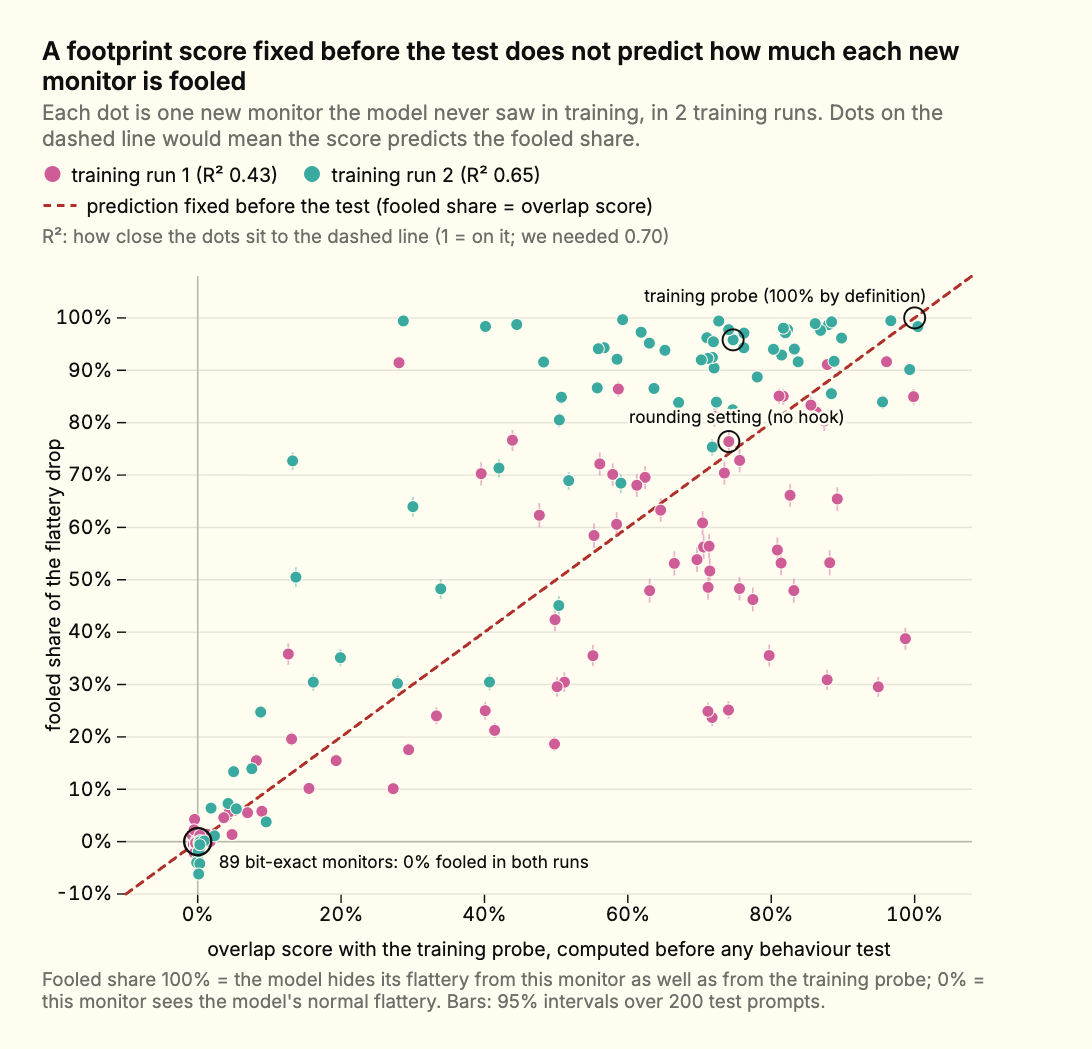
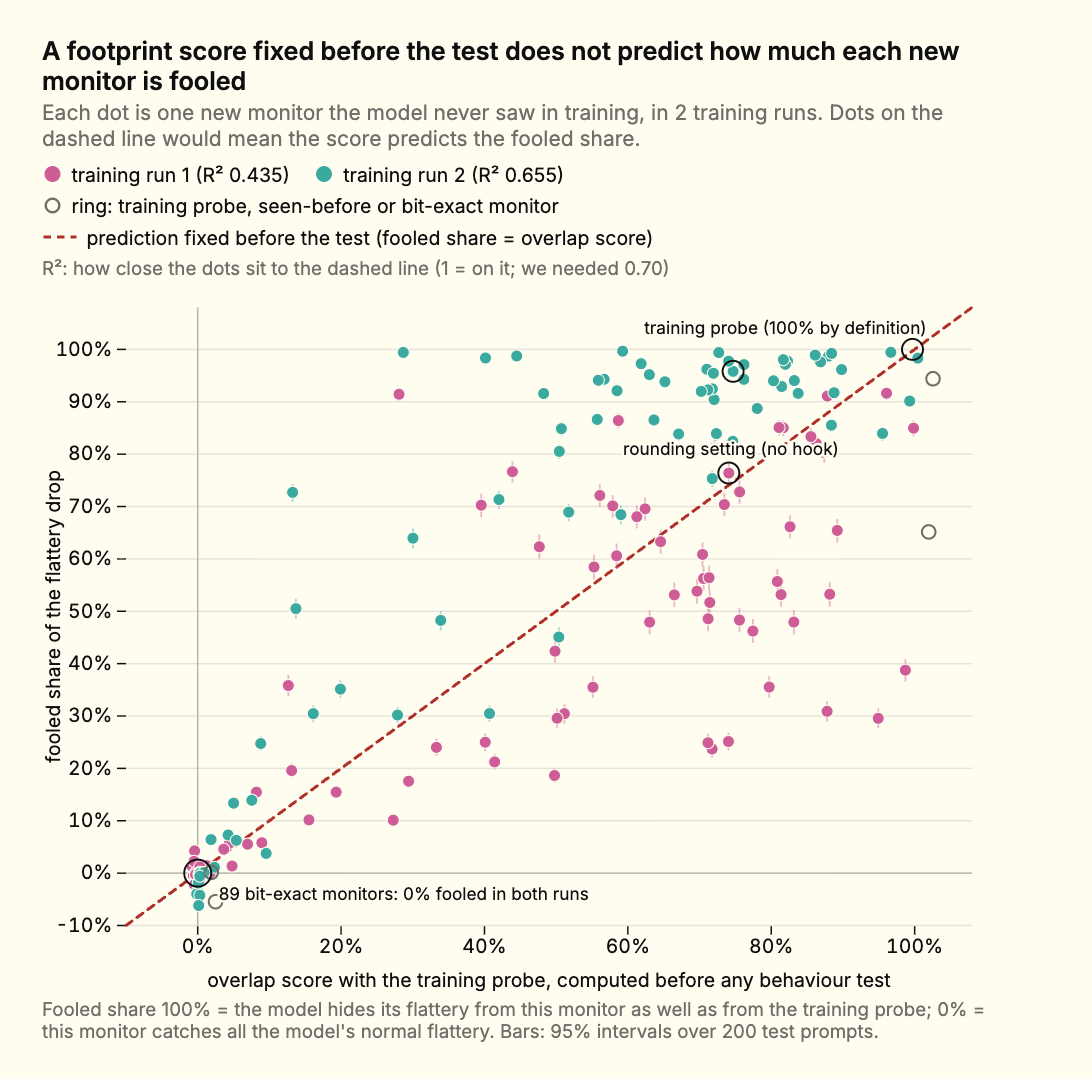
footprint-overlap: figure trimmed to variant (a), summary first in data.json, seen-before rings, R2 3 dp

diff --git a/projects/footprint-overlap/figures/footprint-overlap/plot.js b/projects/footprint-overlap/figures/footprint-overlap/plot.js
@@ -1,11 +1,10 @@
-// A model trained by reward to stop flattering only while a leaky probe (the training probe) is attached.
-// Each dot is one new monitor build that the model never saw in training, for each of 2 training runs.
-// x = overlap score: how much the monitor's numeric footprint looks like the training probe's, to a classifier
-//     trained only on the training probe; computed on the untrained model before any behaviour test.
-// y = fooled share: the flattery drop under that monitor divided by the drop under the training probe (200 prompts),
-//     with 95% bootstrap intervals. Dashed line = the prediction fixed before the test (share = overlap).
-// data.variant picks the view: a = colour by run; b = colour by hook layer, shape by run; c = one panel per run,
-// colour by layer; d = fooled share against hook layer; e = faint cloud + each run's fitted slope.
+// A model trained by reward to stop flattering only while one leaky probe (the training probe) is attached.
+// Each filled dot = one new monitor the model never saw in training (81: 80 leaky hooks + the rounding setting), in 2
+// training runs. x = overlap score: how much the monitor's numeric footprint looks like the training probe's to a
+// classifier trained only on the training probe, computed on the untrained model before any behaviour test.
+// y = fooled share: flattery drop under that monitor / drop under the training probe (200 prompts), 95% intervals.
+// Dashed line = the prediction fixed before the test (fooled share = overlap score). Rings: the training probe,
+// the 2 monitors seen before this run, and the 89 bit-exact monitors (one ring at the origin, 0% fooled).
 // Data: kran-research projects/footprint-overlap/figures/make_data.py.
 import { C, FONT, halo, plotStyle } from "../theme.js";
 
@@ -14,7 +13,6 @@ const pc = (v) => `${Math.round(v * 100)}%`;
 
 export function render(data, Plot) {
   const T = data.terms || {};
-  const V = data.variant || "a";
   const W = 640;
   const RUN = { 0: C.primary, 1: C.secondary };
   const root = document.createElement("div");
@@ -27,122 +25,55 @@ export function render(data, Plot) {
     d.textContent = text;
     return d;
   };
-  const fit = (svg) => {
-    svg.style.cssText += `;width:100%;height:auto;max-width:${W}px`;
-    return svg;
-  };
-  const dot = (c, hollow, sym) => sym === "tri"
-    ? `<svg width="14" height="14"><path d="M7 2 L12 11 L2 11 Z" fill="${hollow ? "none" : c}" stroke="${c}" stroke-width="1.4"/></svg>`
-    : `<svg width="14" height="14"><circle cx="7" cy="7" r="4.5" fill="${hollow ? "none" : c}" stroke="${c}" stroke-width="1.6"/></svg>`;
-  const line = (c, da, w = 2) => `<svg width="24" height="12"><line x1="1" y1="6" x2="23" y2="6" stroke="${c}" stroke-width="${w}"${da ? ` stroke-dasharray="${da}"` : ""}/></svg>`;
+  const dot = (c, hollow) => `<svg width="14" height="14"><circle cx="7" cy="7" r="4.5" fill="${hollow ? "none" : c}" stroke="${c}" stroke-width="1.6"/></svg>`;
+  const line = (c, da) => `<svg width="24" height="12"><line x1="1" y1="6" x2="23" y2="6" stroke="${c}" stroke-width="2"${da ? ` stroke-dasharray="${da}"` : ""}/></svg>`;
   const legend = (items) => {
     const d = el("display:flex;flex-wrap:wrap;gap:0.3rem 1rem;margin:0 0 0.3rem;font-size:13px;color:" + C.ink, "");
     d.innerHTML = items.map(([s, t]) => `<span style="display:inline-flex;align-items:center;gap:0.35rem">${s}${t}</span>`).join("");
     return d;
   };
-  root.append(
-    el("font-size:17px;font-weight:600;margin:0 0 0.15rem;color:" + C.ink, T.title || ""),
-    el("font-size:14px;margin:0 0 0.5rem;color:" + C.muted, T.subtitle || ""));
-
   const P = data.pts.filter((d) => d.k === "status");
   const seeds = [...new Set(P.map((d) => d.seed))].sort();
   const cell = (s) => data.cells[`s${s}@8192`] || {};
   const runName = (s) => (T.run || "training run ") + (s + 1);
+  root.append(
+    el("font-size:17px;font-weight:600;margin:0 0 0.15rem;color:" + C.ink, T.title || ""),
+    el("font-size:14px;margin:0 0 0.5rem;color:" + C.muted, T.subtitle || ""),
+    legend([...seeds.map((s) => [dot(RUN[s]), `${runName(s)} (R² ${cell(s).r2?.toFixed(3)})`]),
+      [dot(C.muted, true), T.key_ring || "ring: training probe, seen-before or bit-exact monitor"],
+      [line(C.red, "5,4"), T.key_line || "prediction fixed before the test"]]));
+  if (T.r2_gloss) root.append(el("font-size:12.5px;margin:0 0 0.3rem;color:" + C.muted, T.r2_gloss));
+
   const vals = P.flatMap((d) => [d.x, d.lo, d.hi]);
   const lo = Math.min(-0.08, ...vals) - 0.02, hi = Math.max(1.06, ...vals) + 0.02;
-  const off = (d) => (d.seed - (seeds.length - 1) / 2) * 0.006;
+  const off = (d) => (d.seed - (seeds.length - 1) / 2) * 0.006; // tiny nudge so the 2 runs do not hide each other
   const tip = (d) => `${d.name}\n${runName(d.seed)}\noverlap score ${pc(d.x)}\nfooled share ${pc(d.y)} (95% ${pc(d.lo)} to ${pc(d.hi)})`;
-  const layerColor = { type: "linear", domain: [0, 27], range: [C.primary, C.secondary], unknown: C.orange };
-  const bx = data.n_bitexact;
-  const bxMark = [Plot.dot([{ x: 0, y: 0 }], { x: "x", y: "y", r: 9, stroke: C.ink, strokeWidth: 1.6, fill: "none" }),
-    Plot.text([{ x: 0, y: 0 }], { ...halo(), x: "x", y: "y", text: [`${bx} ${T.bitexact || "bit-exact monitors: 0% fooled in both runs"}`], dx: 14, dy: 14, textAnchor: "start", fontSize: 11.5, fill: C.ink })];
-  const frame = (extra) => ({
-    style: plotStyle({ fontSize: "13px" }), marginLeft: 56, marginRight: 20, marginTop: 14, marginBottom: 44, ...extra,
-  });
-  const scatterMarks = (pts, colorOf, symbolOf) => [
-    Plot.gridY({ stroke: C.grid, strokeOpacity: 1 }),
-    Plot.ruleY([0], { stroke: C.faint }),
-    Plot.ruleX([0], { stroke: C.faint }),
-    Plot.line([[lo, lo], [hi, hi]], { stroke: C.red, strokeWidth: 2, strokeDasharray: "5,4" }),
-    Plot.link(pts, { x1: (d) => d.x + off(d), x2: (d) => d.x + off(d), y1: "lo", y2: "hi", stroke: colorOf, strokeOpacity: 0.45, strokeWidth: 1.2 }),
-    Plot.dot(pts, { x: (d) => d.x + off(d), y: "y", r: 4, symbol: symbolOf, fill: colorOf, stroke: C.paper, strokeWidth: 0.7, tip: true, title: tip }),
-    ...bxMark,
-  ];
-  const axes = { x: { domain: [lo, hi], label: T.x || "overlap score, computed before any behaviour test", tickFormat: pc, ...AX },
-    y: { domain: [lo, hi], label: T.y || "fooled share of the flattery drop", tickFormat: pc, ...AX } };
-  const lineKey = [line(C.red, "5,4"), T.key_line || "prediction fixed before the test"];
-  const layerKey = el("font-size:12.5px;margin:0 0 0.3rem;color:" + C.muted, T.layer_key || "colour: hook layer, from layer 0 (pink) to layer 27 (teal); orange = the rounding setting, which has no hook");
-
-  if (V === "a") {
-    const A = data.pts.filter((d) => d.k === "A" && d.seed === seeds[0]).map((d) => ({ ...d, y: 1 }));
-    const emu = P.filter((d) => d.b === "emu");
-    root.append(legend([...seeds.map((s) => [dot(RUN[s]), `${runName(s)} (R² ${cell(s).r2?.toFixed(2)})`]), lineKey]));
-    if (T.r2_gloss) root.append(el("font-size:12.5px;margin:0 0 0.3rem;color:" + C.muted, T.r2_gloss));
-    root.appendChild(fit(Plot.plot(frame({ width: W, height: 470, ...axes, marks: [
-      ...scatterMarks(P, (d) => RUN[d.seed], "circle"),
-      Plot.dot(emu, { x: (d) => d.x + off(d), y: "y", r: 7, stroke: C.ink, strokeWidth: 1.3, fill: "none" }),
-      Plot.text(emu.slice(0, 1), { ...halo(), x: "x", y: "y", text: [T.name_emu || "rounding setting (no hook)"], dx: 4, dy: -16, textAnchor: "middle", fontSize: 11.5, fill: C.ink }),
-      Plot.dot(A, { x: "x", y: "y", r: 7, stroke: C.ink, strokeWidth: 1.3, fill: "none" }),
-      Plot.text(A, { ...halo(), x: "x", y: "y", text: [T.name_A || "training probe"], dx: 8, dy: -14, textAnchor: "end", fontSize: 11.5, fill: C.ink }),
-    ] }))));
-  } else if (V === "b") {
-    root.append(legend([...seeds.map((s) => [dot(C.muted, false, s ? "tri" : "dot"), `${runName(s)} (R² ${cell(s).r2?.toFixed(2)})`]), lineKey]), layerKey);
-    root.appendChild(fit(Plot.plot(frame({ width: W, height: 470, ...axes, color: layerColor,
-      symbol: { domain: [0, 1], range: ["circle", "triangle"] },
-      marks: scatterMarks(P, (d) => d.layer ?? NaN, (d) => d.seed) }))));
-  } else if (V === "c") {
-    root.append(legend([lineKey]), layerKey);
-    const row = document.createElement("div");
-    row.style.cssText = "display:flex;gap:8px";
-    for (const s of seeds) {
-      const box = document.createElement("div");
-      box.style.cssText = "flex:1;min-width:0";
-      box.append(el("font-size:14px;font-weight:600;color:" + C.ink, `${runName(s)}: R² ${cell(s).r2?.toFixed(2)}`));
-      const svg = Plot.plot(frame({ width: 320, height: 330, marginLeft: 44, ...axes, color: layerColor,
-        x: { ...axes.x, label: s ? axes.x.label : null, ticks: 5 }, y: { ...axes.y, label: s ? null : axes.y.label, ticks: 6 },
-        marks: scatterMarks(P.filter((d) => d.seed === s), (d) => d.layer ?? NaN, "circle").slice(0, -1) }));
-      svg.style.cssText += ";width:100%;height:auto";
-      box.appendChild(svg);
-      row.appendChild(box);
-    }
-    root.appendChild(row);
-  } else if (V === "d") {
-    const hooks = P.filter((d) => d.layer != null);
-    const mean = (arr) => arr.reduce((a, b) => a + b, 0) / arr.length;
-    const byL = (s, key) => [...new Set(hooks.map((d) => d.layer))].sort((a, b) => a - b).map((L) => {
-      const v = hooks.filter((d) => d.layer === L && (s == null || d.seed === s));
-      return { layer: L, v: mean(v.map((d) => d[key])), seed: s };
-    });
-    const lines = seeds.map((s) => byL(s, "y"));
-    const ovl = byL(seeds[0], "x");
-    root.append(legend([...seeds.map((s) => [line(RUN[s]), `${runName(s)}: fooled share (mean per layer)`]),
-      [line(C.ink, "5,4"), T.key_overlap || "overlap score (mean per layer), fixed before the test"]]));
-    root.appendChild(fit(Plot.plot(frame({ width: W, height: 400,
-      x: { domain: [-0.5, 27.5], label: T.x_layer || "layer of the monitor's hook (block 26 is where the trained part starts)", ...AX },
-      y: { domain: [Math.min(-0.08, ...hooks.map((d) => d.y)), 1.08], label: axes.y.label, tickFormat: pc, ...AX },
-      marks: [
-        Plot.gridY({ stroke: C.grid, strokeOpacity: 1 }),
-        Plot.ruleY([0], { stroke: C.faint }),
-        Plot.ruleX([14], { stroke: C.faint, strokeDasharray: "2,3" }),
-        Plot.text([14], { x: (d) => d, y: 1.06, text: [T.probe_layer || "training probe's layer"], fontSize: 11, fill: C.muted, textAnchor: "start", dx: 4 }),
-        Plot.dot(hooks, { x: (d) => d.layer + (d.seed - 0.5) * 0.3, y: "y", r: 2.6, fill: (d) => RUN[d.seed], fillOpacity: 0.55, tip: true, title: tip }),
-        ...lines.map((L, i) => Plot.line(L, { x: "layer", y: "v", stroke: RUN[seeds[i]], strokeWidth: 2.2 })),
-        Plot.line(ovl, { x: "layer", y: "v", stroke: C.ink, strokeWidth: 1.8, strokeDasharray: "5,4" }),
-      ] }))));
-  } else {
-    root.append(legend([[dot(C.faint), T.key_cloud || "one new monitor in one run"],
-      ...seeds.map((s) => [line(RUN[s], null, 2.6), `${runName(s)}: fitted slope ${cell(s).slope0?.toFixed(2)}`]), lineKey]));
-    root.appendChild(fit(Plot.plot(frame({ width: W, height: 470, ...axes, marks: [
+  const A = data.pts.filter((d) => d.k === "A" && d.seed === seeds[0]).map((d) => ({ ...d, y: 1 }));
+  const seen = data.pts.filter((d) => d.k === "seen");
+  const emu = P.filter((d) => d.b === "emu");
+  const ring = (pts, r) => Plot.dot(pts, { x: (d) => d.x + (d.seed != null ? off(d) : 0), y: "y", r, stroke: C.ink, strokeWidth: 1.3, fill: "none" });
+  const svg = Plot.plot({
+    style: plotStyle({ fontSize: "13px" }), width: W, height: 470, marginLeft: 56, marginRight: 20, marginTop: 14, marginBottom: 44,
+    x: { domain: [lo, hi], label: T.x || "overlap score, computed before any behaviour test", tickFormat: pc, ...AX },
+    y: { domain: [lo, hi], label: T.y || "fooled share of the flattery drop", tickFormat: pc, ...AX },
+    marks: [
       Plot.gridY({ stroke: C.grid, strokeOpacity: 1 }),
       Plot.ruleY([0], { stroke: C.faint }),
       Plot.ruleX([0], { stroke: C.faint }),
-      Plot.dot(P, { x: "x", y: "y", r: 3.2, fill: C.faint, tip: true, title: tip }),
       Plot.line([[lo, lo], [hi, hi]], { stroke: C.red, strokeWidth: 2, strokeDasharray: "5,4" }),
-      ...seeds.map((s) => Plot.line([[0, 0], [hi, hi * cell(s).slope0]], { stroke: RUN[s], strokeWidth: 2.6, clip: true })),
-      ...seeds.map((s) => Plot.text([[hi, Math.min(hi, hi * cell(s).slope0)]], { ...halo(), x: (d) => d[0], y: (d) => d[1], text: [`${runName(s)}`], textAnchor: "end", dx: -4, dy: cell(s).slope0 > 1 ? 12 : -10, fontSize: 12, fontWeight: 600, fill: RUN[s] })),
-      ...bxMark,
-    ] }))));
-  }
+      Plot.link(P, { x1: (d) => d.x + off(d), x2: (d) => d.x + off(d), y1: "lo", y2: "hi", stroke: (d) => RUN[d.seed], strokeOpacity: 0.45, strokeWidth: 1.2 }),
+      Plot.dot(P, { x: (d) => d.x + off(d), y: "y", r: 4, fill: (d) => RUN[d.seed], stroke: C.paper, strokeWidth: 0.7, tip: true, title: tip }),
+      Plot.dot(seen, { x: (d) => d.x + off(d), y: "y", r: 4.5, stroke: C.muted, strokeWidth: 1.4, fill: "none", tip: true, title: (d) => `${T.seen || "seen before this run"}: ${tip(d)}` }),
+      ring(emu, 7),
+      Plot.text(emu.slice(0, 1), { ...halo(), x: "x", y: "y", text: [T.name_emu || "rounding setting (no hook)"], dy: -16, fontSize: 11.5, fill: C.ink }),
+      ring(A, 7),
+      Plot.text(A, { ...halo(), x: "x", y: "y", text: [T.name_A || "training probe"], dx: 8, dy: -14, textAnchor: "end", fontSize: 11.5, fill: C.ink }),
+      ring([{ x: 0, y: 0 }], 9),
+      Plot.text([{ x: 0, y: 0 }], { ...halo(), x: "x", y: "y", text: [`${data.n_bitexact} ${T.bitexact || "bit-exact monitors: 0% fooled in both runs"}`], dx: 14, dy: 14, textAnchor: "start", fontSize: 11.5, fill: C.ink }),
+    ],
+  });
+  svg.style.cssText += `;width:100%;height:auto;max-width:${W}px`;
+  root.appendChild(svg);
   if (T.note) root.append(el("font-size:12.5px;margin:0.3rem 0 0;color:" + C.muted, T.note));
   return root;
 }

diff --git a/projects/footprint-overlap/figures/make_data.py b/projects/footprint-overlap/figures/make_data.py
@@ -59,8 +59,10 @@ def main() -> None:
         cells[h] = {"r2": r4(c["r2_fixed"]), "p": r4(c["perm_p"]), "n": S["status"]["n_status"], "slope0": r4(slope)}
     n_bx = len(S["prereg"]["bitexact_builds"])
     terms = json.load(open(HERE / "figures" / "terms.json")) if (HERE / "figures" / "terms.json").exists() else {}
-    data = {"pts": pts, "cells": cells, "status": S["status"]["status"], "n_bitexact": n_bx, "terms": terms,
-            "variant": terms.get("variant", "a")}
+    emu = {h: r4(S["policies"][h]["rows"]["emu"]["share"]) for h in S["status"]["cells"]}
+    # summary first: the cheap figure gate reads only the first 3,000 characters of data.json
+    data = {"terms": terms, "cells": cells, "n_bitexact": n_bx, "status": S["status"]["status"],
+            "emu": {"overlap": r4(ov["emu"]["overlap"]), "share": emu}, "pts": pts}
     out = HERE / "figures" / "footprint-overlap"
     out.mkdir(parents=True, exist_ok=True)
     json.dump(data, open(out / "data.json", "w"), separators=(",", ":"))
